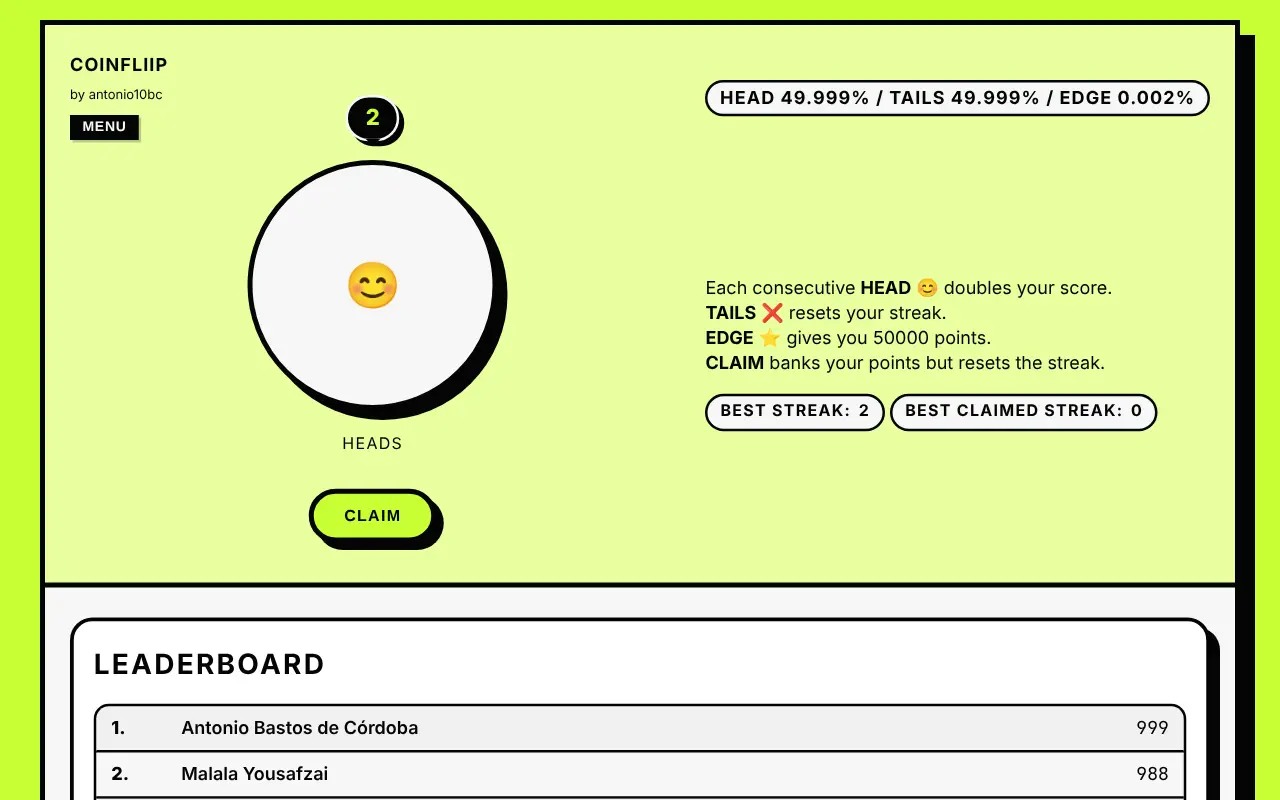
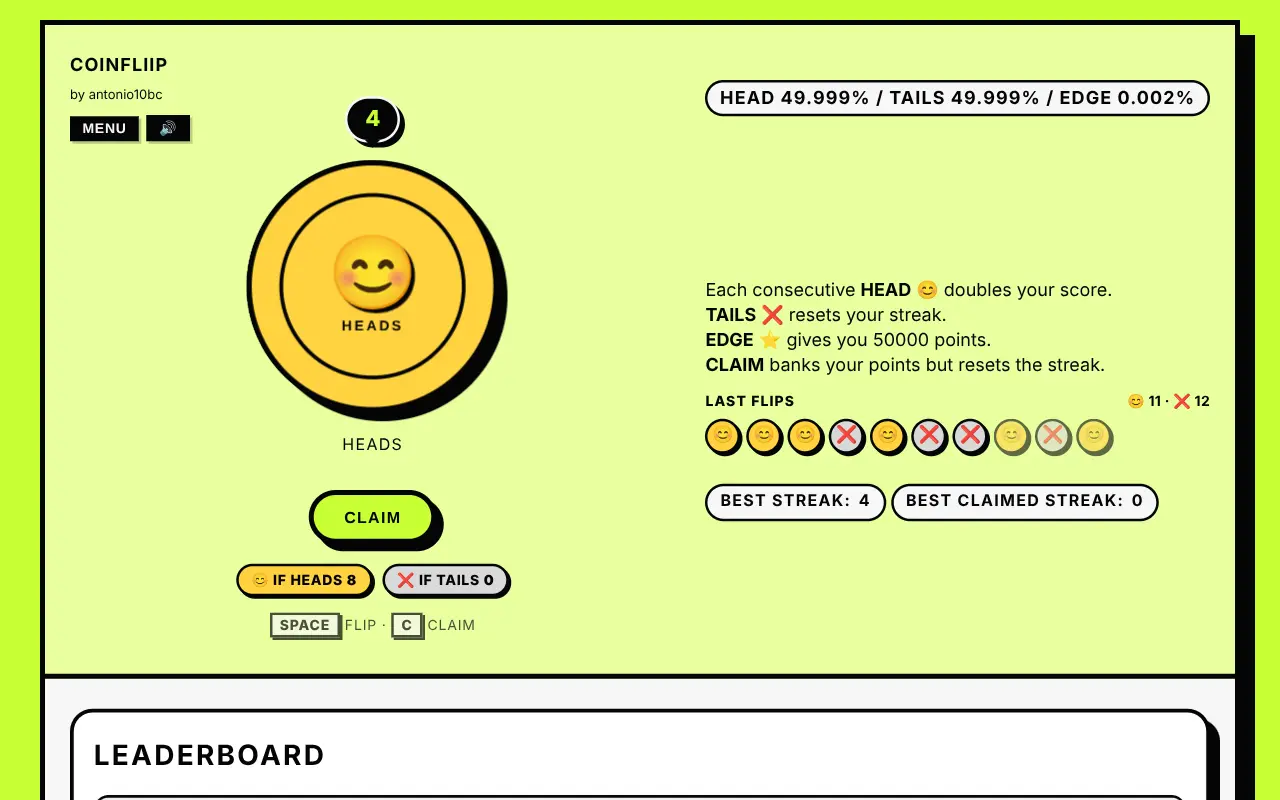
Juegos actualizados, Instagram en Fotografía y pie simétrico
- Capturas nuevas de Coinfliip (moneda 3D en partida), Magic Poker (menú
  con el mapa) y Tank-less (menú), sacadas en local de sus repos.
- Textos de los cinco juegos reescritos en inglés y español a partir de lo
  que hace cada uno hoy.
- En la cabecera de Fotografía, el enlace a Instagram (@antonio10bc) en el
  lugar del número de fotogramas.
- Pie simétrico: copyright a la izquierda y Madrid, ES a la derecha, con la
  misma microtipografía. El Instagram sale del pie.

Claude-Session: https://claude.ai/code/session_01JhC2wWUqQ9rHtwfrGLpBTL

diff --git a/lib/projects.ts b/lib/projects.ts
@@ -18,41 +18,41 @@ export const PROJECTS: Project[] = [
   {
     name: "Coinfliip",
     href: "https://www.coinfliip.com/",
-    tagline: "Flip a coin to settle anything, or chase a run of heads up the global leaderboard.",
-    taglineEs: "Lanza una moneda para decidir cualquier cosa, o encadena caras para subir en la clasificación mundial.",
+    tagline: "Every head doubles your score and tails wipes it: bank your streak in time, hunt the 1 in 50,000 edge and climb the global leaderboard, solo or in rooms with friends.",
+    taglineEs: "Cada cara duplica tu puntuación y cada cruz la borra: guarda la racha a tiempo, busca el canto (1 entre 50.000) y escala en la clasificación mundial, en solitario o en salas con amigos.",
     screenshot: "/images/projects/coinfliip.webp",
-    tint: "#CCFF33",
+    tint: "#D9E894",
   },
   {
     name: "Magic Poker",
     href: "https://magic-poker-kappa.vercel.app/",
-    tagline: "A poker table in the browser, across three difficulty levels.",
-    taglineEs: "Una mesa de póker en el navegador, con tres niveles de dificultad.",
+    tagline: "A pixel art card duel: lay poker cards face to face against twelve bosses, each with its own deck and seals that bend the rules, on the way to the Castle.",
+    taglineEs: "Un duelo de cartas en pixel art: enfrenta cartas de póker contra doce jefes, cada uno con su mazo y sellos que cambian las reglas, camino del Castillo.",
     screenshot: "/images/projects/magic-poker.webp",
-    tint: "#0B0D0C",
+    tint: "#272622",
   },
   {
     name: "ASCII Forest",
     href: "https://asciiforest-game.vercel.app/",
-    tagline: "A narrative forest sim drawn in text: tend flora and fauna, one day at a time.",
-    taglineEs: "Un simulador narrativo de bosque dibujado con texto: cuida la flora y la fauna, día a día.",
+    tagline: "A forest drawn in text on a green phosphor screen: plant seeds and watch trees, a river, frogs, bees and deer grow on their own, until a wildfire needs putting out.",
+    taglineEs: "Un bosque dibujado con texto en una pantalla de fósforo verde: planta semillas y mira cómo crecen solos árboles, un río, ranas, abejas y ciervos, hasta que un incendio obliga a apagarlo.",
     screenshot: "/images/projects/ascii-forest.webp",
     tint: "#0D140B",
   },
   {
     name: "Chaotic Golf Game",
     href: "https://chaoticgolfweb.vercel.app/",
-    tagline: "Playable prototype of the card game: configurable matches against the AI, plus a level creator.",
-    taglineEs: "Prototipo jugable del juego de cartas: partidas configurables contra la IA y un creador de niveles.",
+    tagline: "The card game on a digital table: golf played with cards, bunkers, portals and CHECK, against bots or with friends on one phone, plus a daily challenge and a level creator.",
+    taglineEs: "El juego de cartas en una mesa digital: golf con cartas, búnkeres, portales y JAQUE, contra bots o con amigos en el mismo móvil, con reto diario y creador de niveles.",
     screenshot: "/images/projects/chaotic-golf.webp",
     tint: "#3E6B45",
   },
   {
     name: "Tank-less",
     href: "https://tanquesweb.vercel.app/",
-    tagline: "A voxel tank duel against the AI: keep moving to stay hidden, stop to fire, and every shot gives you away.",
-    taglineEs: "Un duelo de tanques voxel contra la IA: muévete para seguir oculto, párate para disparar, y cada disparo te delata.",
+    tagline: "A voxel tank duel in retro DS style: you are invisible while you move and give yourself away when you stop to fire. A campaign of eight boss worlds, survival and two player duels.",
+    taglineEs: "Un duelo de tanques voxel con estética retro de DS: mientras te mueves eres invisible y al pararte a disparar te delatas. Campaña de ocho mundos con jefe, supervivencia y duelo a dos.",
     screenshot: "/images/projects/tanques.webp",
-    tint: "#1FB6FF",
+    tint: "#3A3868",
   },
 ];

diff --git a/components/Footer.tsx b/components/Footer.tsx
@@ -1,5 +1,3 @@
-const INSTAGRAM = { handle: "@antonio10bc", href: "https://www.instagram.com/antonio10bc/" };
-
 /** Regla de pie con quiebro, como los corchetes de línea de la base de la referencia. */
 function FootRule({ flip = false }: { flip?: boolean }) {
   return (
@@ -7,7 +5,7 @@ function FootRule({ flip = false }: { flip?: boolean }) {
       aria-hidden
       viewBox="0 0 100 16"
       preserveAspectRatio="none"
-      className={`hidden h-4 min-w-0 flex-1 md:block ${flip ? "-scale-x-100" : ""}`}
+      className={`hidden h-3 min-w-0 flex-1 md:block ${flip ? "-scale-x-100" : ""}`}
     >
       <path
         d="M1 15V1H78L92 15H100"
@@ -21,28 +19,17 @@ function FootRule({ flip = false }: { flip?: boolean }) {
 }
 
 /**
- * Fila inferior: a la izquierda el usuario de Instagram como titular (el
- * "@ctmak" de la referencia), a la derecha la ciudad. Sin año, a propósito.
+ * Fila inferior, simétrica: el copyright a la izquierda y la ciudad a la
+ * derecha, los dos en la misma microtipografía. El Instagram no va aquí: vive
+ * en la cabecera de Fotografía. Sin año, a propósito.
  */
 export default function Footer({ className = "" }: { className?: string }) {
   return (
-    <footer className={`shrink-0 text-ink ${className}`}>
-      <div className="flex items-end justify-between gap-6">
-        <a
-          href={INSTAGRAM.href}
-          target="_blank"
-          rel="noopener noreferrer"
-          aria-label="Instagram"
-          data-track="instagram_clicked"
-          className="display text-[clamp(1.25rem,3vw,2.25rem)] transition-opacity duration-300 hover:opacity-60"
-        >
-          {INSTAGRAM.handle}
-        </a>
-        <FootRule />
-        <FootRule flip />
-        <span className="display text-right text-[clamp(1.25rem,3vw,2.25rem)]">madrid, es.</span>
-      </div>
-      <p className="label mt-2">&copy; Antonio Asis Bastos de Cordoba</p>
+    <footer className={`flex shrink-0 items-center justify-between gap-6 text-ink ${className}`}>
+      <span className="label">&copy; Antonio Asis Bastos de Cordoba</span>
+      <FootRule />
+      <FootRule flip />
+      <span className="label text-right">Madrid, ES</span>
     </footer>
   );
 }

diff --git a/app/[lang]/photography/page.tsx b/app/[lang]/photography/page.tsx
@@ -4,10 +4,7 @@ import Footer from "@/components/Footer";
 import { Brackets, XStack } from "@/components/Hud";
 import PhotoGallery from "@/components/PhotoGallery";
 import SectionHeader from "@/components/SectionHeader";
-import { PHOTOS } from "@/lib/photos";
 import { dictFor, isLang } from "@/lib/i18n";
-
-const count = String(PHOTOS.length).padStart(2, "0");
 
 /** Espécimen de la cabecera: "Snow Peak" tramado, dentro de un marco de visor. */
 function HeaderSpecimen() {
@@ -42,7 +39,18 @@ export default async function PhotographyPage({ params }: { params: Promise<{ la
           eyebrow={t.photoEyebrow}
           title={t.photoTitle}
           code={t.photoCode}
-          meta={t.frames(count)}
+          meta={
+            <a
+              href="https://www.instagram.com/antonio10bc/"
+              target="_blank"
+              rel="noopener noreferrer"
+              aria-label="Instagram @antonio10bc"
+              data-track="instagram_clicked"
+              className="normal-case tracking-normal underline decoration-1 underline-offset-4 transition-opacity duration-300 hover:opacity-60"
+            >
+              @antonio10bc
+            </a>
+          }
           intro={t.photoIntro}
           aside={<HeaderSpecimen />}
         />

diff --git a/components/SectionHeader.tsx b/components/SectionHeader.tsx
@@ -20,7 +20,7 @@ export default function SectionHeader({
   code: string;
   intro?: React.ReactNode;
   /** Cifra corta: nº de piezas. */
-  meta?: string;
+  meta?: React.ReactNode;
   aside?: React.ReactNode;
   className?: string;
 }) {

diff --git a/CLAUDE.md b/CLAUDE.md
@@ -31,9 +31,9 @@ The site follows the **"Specimen File"** art direction in `docs/art-direction/AR
 
 Page chrome is factored out — do not re-inline it:
 
-- `Footer`: the bottom row. `@antonio10bc` (the Instagram link) on the left, `madrid, es.` on the right, two kinked rules between them on `md+`, and the copyright as a mono label below. It carries no year, on purpose.
-- `SectionHeader`: the file header on `/projects` and `/photography`: eyebrow, the giant title (it appends the full stop), the file `code`, `meta`, `intro` (a `ReactNode`, so line breaks are real `<br />`) and an `aside` on the right (a halftone specimen or a data block).
-- `ProjectCard`: one project file per game: project code, the **real screenshot** of the game (`public/images/projects/*.webp`, 1280x800, quality 80) on its `tint` inside a grey panel with viewfinder brackets, the name as a headline, an ink rule, the tagline as data text, a "Play" action and a barcode. **The screenshots are served `unoptimized`** (they are already 1280px WebP) and the first two load with `priority`: through the image optimiser they were generated on the first visit and took a moment to appear. The screenshots were taken locally from each game's own repo (`antonio10bc-hub/neobrutalist-flip` is Coinfliip, `MagicPoker`, `asciiforest`, `chaoticgolfweb`) with Playwright at 1024x640, DPR 1.25 (ASCII Forest at 1280x800, it needs the wider view), with dev badges, cookie banners and debug buttons hidden. Retake them the same way rather than drawing illustrations: the card must look like the game. The card's own `transform` is never animated; entry animations belong on the wrapper in the page.
+- `Footer`: the bottom row, symmetric: `© Antonio Asis Bastos de Cordoba` on the left and `Madrid, ES` on the right, both in the same `.label` microtype, with two kinked rules between them on `md+`. **No Instagram link here**: it lives in the photography header (see below). It carries no year, on purpose.
+- `SectionHeader`: the file header on `/projects` and `/photography`: eyebrow, the giant title (it appends the full stop), the file `code`, `meta`, `intro` (a `ReactNode`, so line breaks are real `<br />`) and an `aside` on the right (a halftone specimen or a data block). `meta` is a `ReactNode`: on `/photography` it is the Instagram link (`@antonio10bc`, `data-track="instagram_clicked"`), not the frame count.
+- `ProjectCard`: one project file per game: project code, the **real screenshot** of the game (`public/images/projects/*.webp`, 1280x800, quality 80) on its `tint` inside a grey panel with viewfinder brackets, the name as a headline, an ink rule, the tagline as data text, a "Play" action and a barcode. **The screenshots are served `unoptimized`** (they are already 1280px WebP) and the first two load with `priority`: through the image optimiser they were generated on the first visit and took a moment to appear. The screenshots were taken locally from each game's own repo (`antonio10bc-hub/neobrutalist-flip` is Coinfliip, `MagicPoker`, `asciiforest`, `chaoticgolfweb`, `tanquesweb` is Tank-less) with Playwright at 1024x640, DPR 1.25 (ASCII Forest at 1280x800, it needs the wider view), with dev badges, cookie banners and debug buttons hidden. What each one shows: Coinfliip in a game with a heads streak (Firebase stubbed, the streak flames hidden because they cover the UI), Magic Poker and Tank-less on their main menu (Tank-less is WebGL: launch Chromium with `--use-angle=swiftshader --enable-unsafe-swiftshader`, and seed `tankless.profile` with `tutorialDone: true` to skip the tutorial), ASCII Forest after its debug `UNLOCK ALL`, Chaotic Golf on its menu. Coinfliip, Magic Poker and Tank-less were retaken on 2026-10-23 after big updates; when a game changes, retake its screenshot **and** rewrite both taglines from what the game does now (its README, rules text and the running build), not from memory. Retake them the same way rather than drawing illustrations: the card must look like the game. The card's own `transform` is never animated; entry animations belong on the wrapper in the page.
 - `Hud`: the graphic vocabulary of the reference as small decorative components (`Brackets`, `CornerMark`, `Dots`, `Barcode`, `DataBars`, `Diamonds`, `XStack`, `PixelGlyph`, `Slashes`, `Leader`, `Arrow`). All are `aria-hidden` and paint in `currentColor`. `Barcode` and `DataBars` are derived from a text `seed` with a deterministic hash, never `Math.random()`, so the server and client HTML match. Decoration is hidden below `md`.
 - `BackLink`: square ink button.
 - `PageTransition` — wraps `{children}` in `app/[lang]/layout.tsx` and cross-fades routes with a CSS animation (`animate-fade-in`) on a `div` keyed by `usePathname()`. It deliberately does **not** use Framer Motion: `initial={{opacity:0}}` shipped in the server HTML and left every page blank until hydration. `framer-motion` is still in `package.json` but nothing imports it.
